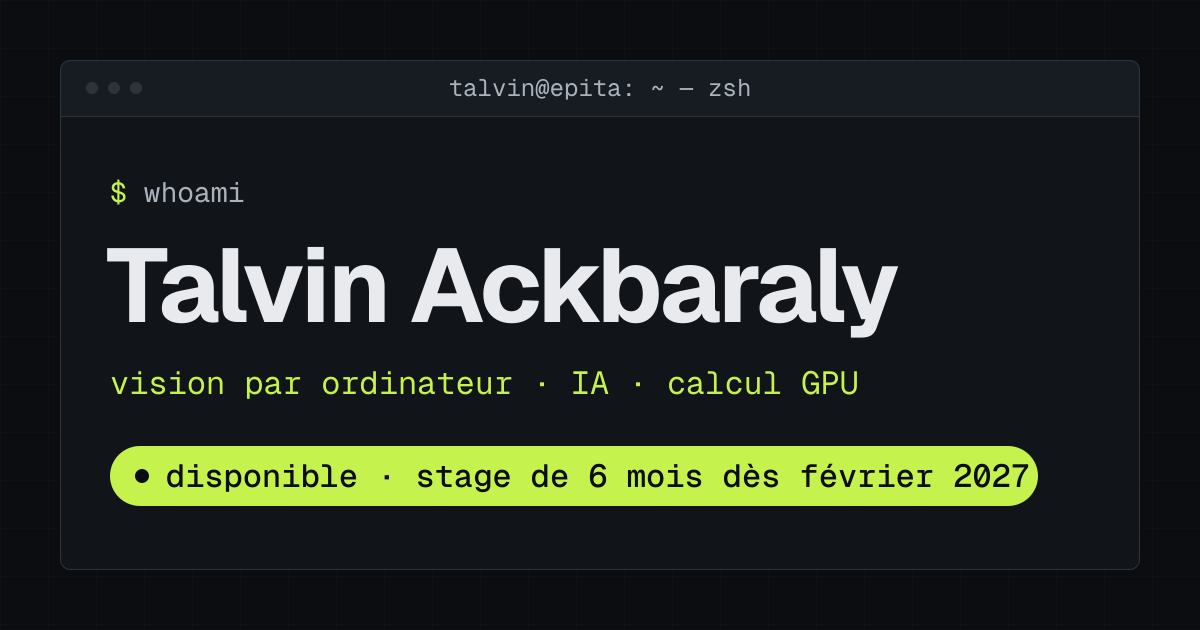
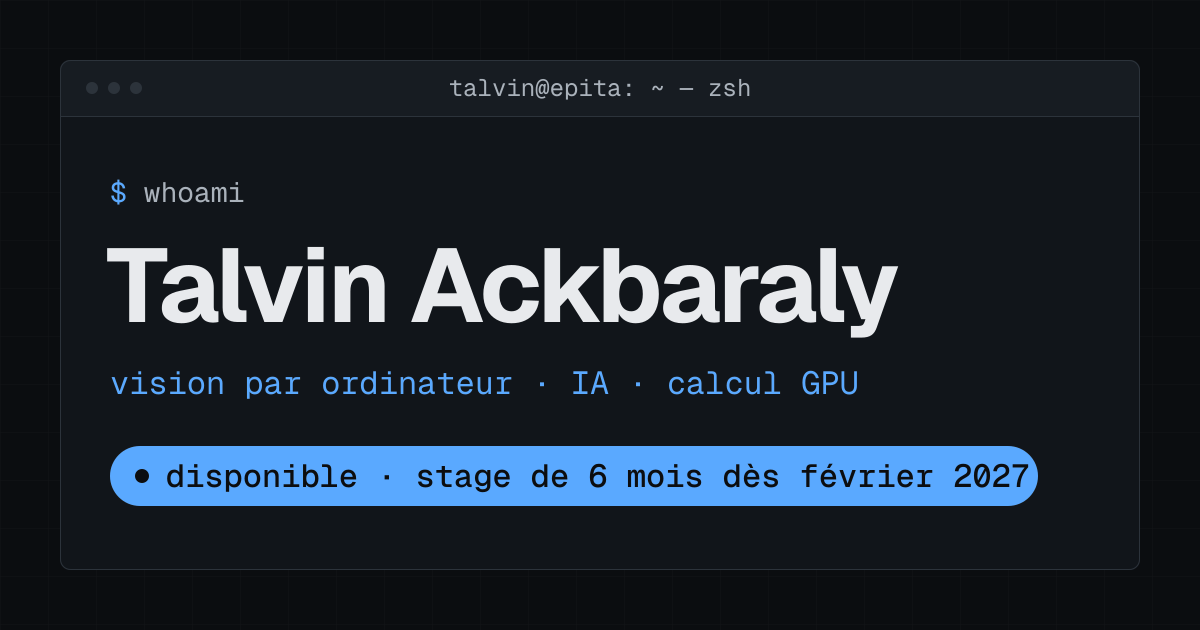
New theme color (#52)
* style: update CSS styles in style.css

* style: update light theme color and refresh OG images

diff --git a/css/style.css b/css/style.css
@@ -101,10 +101,10 @@ ol[role="list"] {
   --rule: #1f242b;
   --rule-2: #2c333b;
   --grid-line: rgb(255 255 255 / 0.03);
-  --accent: #c6f24e;
+  --accent: #5aa9ff;
   --on-accent: #0b0d10;
-  --accent-text: #c6f24e;
-  --detect: #c6f24e;
+  --accent-text: #5aa9ff;
+  --detect: #5aa9ff;
   --overlay: rgb(5 6 8 / 0.88);
   --shade: 0 24px 60px rgb(0 0 0 / 0.45);
 }
@@ -112,22 +112,22 @@ ol[role="list"] {
 /* ─── Light ─── */
 :root[data-theme="light"] {
   color-scheme: light;
-  --bg: #f5f6f3;
+  --bg: #f4f6f9;
   --surface: #ffffff;
-  --surface-2: #eceee9;
+  --surface-2: #e9edf2;
   --ink: #0e1013;
   --ink-2: #434951;
   --ink-3: #5f666e;
-  --rule: #dcdfd9;
-  --rule-2: #c3c8c0;
+  --rule: #d8dee6;
+  --rule-2: #bfc7d1;
   --grid-line: rgb(0 0 0 / 0.04);
-  /* Same lime as dark for fills and strokes. Lime text on white would
-     be unreadable, so text keeps a deeper green. */
-  --accent: #c6f24e;
+  /* Same blue as dark for fills and strokes. Light blue text on white would
+     be too faint, so text keeps a deeper blue. */
+  --accent: #5aa9ff;
   --on-accent: #0b0d10;
-  --accent-text: #3d6604;
-  --detect: #c6f24e;
-  --overlay: rgb(236 238 233 / 0.92);
+  --accent-text: #1d4ed8;
+  --detect: #5aa9ff;
+  --overlay: rgb(233 237 242 / 0.92);
   --shade: 0 24px 60px rgb(14 16 19 / 0.16);
 }
 
@@ -136,18 +136,18 @@ ol[role="list"] {
 @media (prefers-color-scheme: light) {
   :root:not([data-theme]) {
     color-scheme: light;
-    --bg: #f5f6f3;
+    --bg: #f4f6f9;
     --surface: #ffffff;
-    --surface-2: #eceee9;
+    --surface-2: #e9edf2;
     --ink: #0e1013;
     --ink-2: #434951;
     --ink-3: #5f666e;
-    --rule: #dcdfd9;
-    --rule-2: #c3c8c0;
+    --rule: #d8dee6;
+    --rule-2: #bfc7d1;
     --grid-line: rgb(0 0 0 / 0.04);
-    --accent-text: #3d6604;
-    --detect: #c6f24e;
-    --overlay: rgb(236 238 233 / 0.92);
+    --accent-text: #1d4ed8;
+    --detect: #5aa9ff;
+    --overlay: rgb(233 237 242 / 0.92);
     --shade: 0 24px 60px rgb(14 16 19 / 0.16);
   }
 }
@@ -960,7 +960,7 @@ picture {
   color: var(--ink-2);
 }
 
-/* The card's key words, "detected" with its box: a lime fill sweeps in
+/* The card's key words, "detected" with its box: a blue fill sweeps in
    under each one, left to right, one after the other. */
 .work-card__tagline .hl {
   margin-inline: -0.15em;
